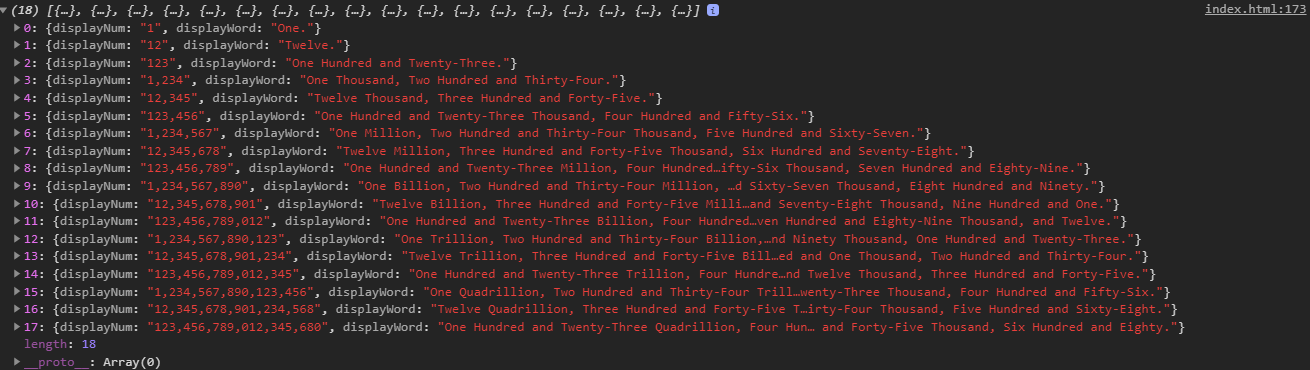
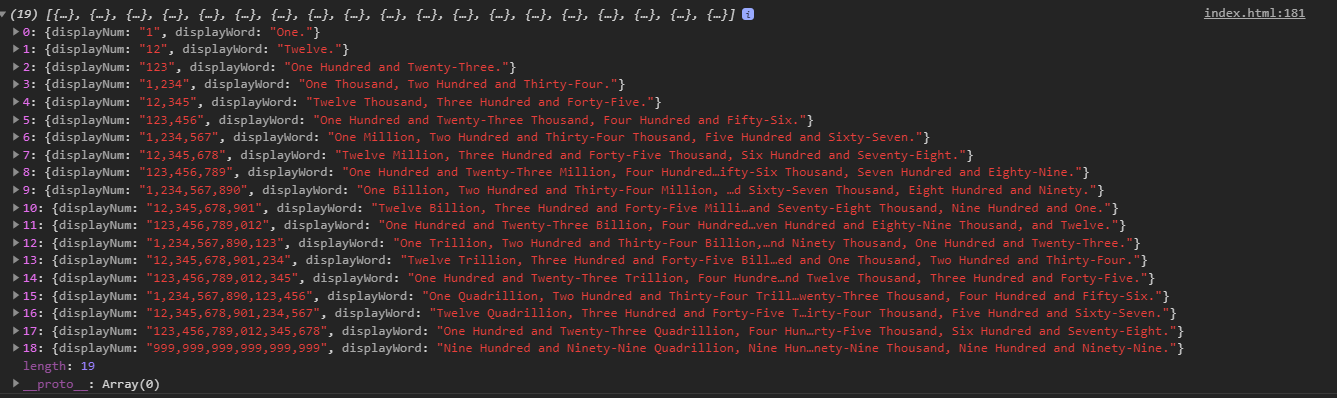
Add files via upload

Changed region(s): [[0.0, 0.0, 0.916, 1.0], [0.8855, 0.0, 1.0, 0.0595]]

diff --git a/index.html b/index.html
@@ -97,7 +97,8 @@
                 // Clear ul
                 document.getElementById('ul').innerHTML = '';
 
-                numInput = parseInt(document.querySelector('#num-input').value);
+                // Put User Input Value Into A Variable As A String
+                numInput = String(document.querySelector('#num-input').value);
 
                 // Clear Input
                 document.querySelector('#num-input').value = '';
@@ -140,22 +141,29 @@
 
                 // Split Input by (',')
                 numSplit = numInput.split(',');
+                newNumInputStr = [];
                 newNumInput = [];
 
                 // Separate Spliced Input Array And Push A New Number Array To NewNumInput
                 numSplit.forEach(function(splitedNum) {
-                    newNumInput.push(parseInt(splitedNum))
+                    newNumInputStr.push(splitedNum)
                 });
 
                 // Discard All NaN From The New Array
-                newNumInput = newNumInput.filter(function(value) {
-                    return !Number.isNaN(value)
-                });
+//                newNumInput = newNumInput.filter(function(value) {
+//                    return !Number.isNaN(value)
+//                });
 
                 // Remove Negative Numbers From The New Array
-                newNumInput = newNumInput.filter(function(value) {
+                newNumInputStr = newNumInputStr.filter(function(value) {
                     return value > -1;
                 });
+
+                // Convert Number String To BigInt. This Is To Handle (+) eg. +234,345 etc If NNot They Would Be Rejected
+                // Now Convert The Whole Numbers Back To Strings
+                newNumInputStr.forEach(function(value){
+                    newNumInput.push(String(BigInt(value)))
+                })
 
                 // Input The Details Of Number To Word Processor Into A Variable
                 process = JSnumberToWordProcessor(newNumInput);

diff --git a/JSnumberToWordProcessor.js b/JSnumberToWordProcessor.js
@@ -8,7 +8,6 @@ const JSnumberToWordProcessor = (function () {
         let processedDataObj;
         let processedDataArray = [];
 
-
         // Process Number If Number Is An Array OR A Single Number
         if (Array.isArray(num)) {
 
@@ -30,7 +29,7 @@ const JSnumberToWordProcessor = (function () {
                 // Parse The Object Into An Array
                 processedDataArray.push(processedDataObj)
             });
-        } else if (num === Number(num)) {
+        } else if (num == BigInt(num)) {
 
             curString = num.toString();
 
@@ -254,8 +253,6 @@ const JSnumberToWordProcessor = (function () {
         function processRegExMatch(curString2Word, curString1, curString2, NUM, curStringLength, llion1, llion2) {
             // Bind The Tense & Unit to Number
             curStringTenseAndUnit = Number(curString1 + curString2);
-
-            //                console.log(curString2Word, curString1, curString2);
 
             // Handle The Hundred, Tense, & Unit
             funcTenseAndUnit(curString2Word, ' Hundred', curStringTenseAndUnit);

diff --git a/README.md b/README.md
@@ -12,11 +12,17 @@ JavaScript Number To Word Processor
     The Goal Of <em>JavaScript Number To Word Processor</em> Is A Well Formatted <code> Number </code> With A Corresponding <code> Number Words </code> That's Easily Readable To The Eyes
 </blockquote>
 
+# UPDATE:
+- *). Application Can Now Handle Numbers Larger Than <code>2 \u2075\u00B3 - 1</code>.
+- *). Spelling Errors Corrected.
+
+
 # How To Use Plugin In Your Project:
 - 1). Download And Attach The JSnumberToWordProcessor.js Script To Your Document.
-- 2). From Your Project Script, Call JSnumberToWordProcessor(numInput), Where numInput is Either A Number Or An Array Of Numbers.
--     a). e.g JSnumberToWordProcessor(123456) OR JSnumberToWordProcessor([123,445,6,8575,8474]).
--     b). OR Just Check JSnumberToWordProcessor.html to See How It Is Been Put To Use.
+- 2). From Your Project Script, Call JSnumberToWordProcessor(numInput); Where (numInput) is Either A String Of Number Or An Array Of Numbers-Strings.
+-     a). e.g. JSnumberToWordProcessor('123456') OR JSnumberToWordProcessor(['123','445','6','8575','8474']). <em>Ensure You Pass-in The Number Argument As A String</em> This Is Because JavaScript Has A Number Length Limit Of <code>2 \u2075\u00B3 - 1</code>. But If You Would Be Dealling With Numbers Less Than This Length, Then Feel Free To Input A Number As Your Argument.
+-     b). <em>Alternatively; Just Append <code>n</code> to The End Of The Number Longer Than <code>2 \u2075/u00B3</code> e.g. <code>123456789098765432n</code> OR <code>[123456789098765433n,123456789098765434n,123456789098765434n].</code> </em> This Calls The BigInt() Method Which Allows JavaScript To Handle BIG Numbers.
+-     c). Better Still; Just Check JSnumberToWordProcessor.html to See How It Is Been Put To Use.
 - 3). Display The Result To Your Document.
 
 
